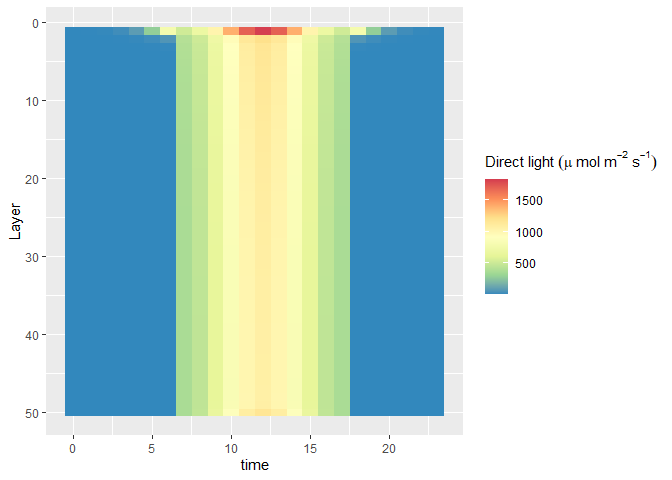
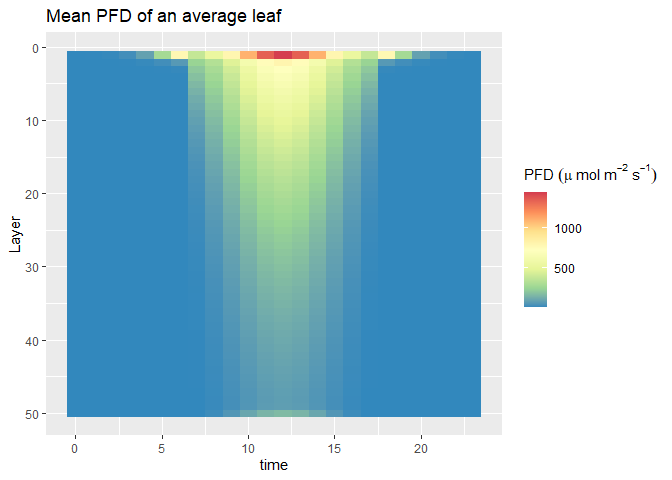
Updating the doc for canopy scaling

diff --git a/vignettes/Canopy_scaling.md b/vignettes/Canopy_scaling.md
@@ -6,9 +6,9 @@ Julien LAMOUR
 # Canopy Scaling
 
 The aim of this tutorial is to show how to scale the gas exchange
-predictions from the leaf to the canopy. In this tutorial, several
+predictions from the leaf level to the canopy. In this tutorial, several
 assumptions are used to simulate the canopy photosynthesis (GPP) and the
-transpiration. We consider that apart from the light, the
+transpiration (ET). We consider that apart from the light, the
 micrometeorological variables are homogeneous inside the canopy (Air
 temperature, wind, CO2, humidity). We also consider that the leaf size
 and structure is homogeneous. Those assumptions may be challenged if
@@ -22,35 +22,29 @@ Basically, in most of the TBMs, the photosynthesis is modeled at the
 leaf level and the scaling up to the canopy is made using two other
 elements, the canopy structure and the canopy radiation interception.
 
-The leaf level photosynthesis is modeled using the function f.AT. This
+The leaf level photosynthesis is modeled using the function f.A. This
 function allows to simulate the leaf gas exchange using input
-environmental variables surrounding the leaves (PARi, wind, RH, Tair)
-and leaf photosynthetic parameters (produced using the function
-f.make.param()). This function couples 3 different models. The Farquhar
-et al. 1980 model itself which describes the rate of photosynthesis from
-the intracellular CO2, the leaf temperature and the light intensity
-(PARi). Another model is the conductance model, which calculates the
-intracellular CO2 from the leaf surface CO2 and environmental factors
-that modify the conductance of the stomata. The last part of this model
-is the leaf energy budget which calculates the leaf temperature knowing
-the amount of energy that is received by the leaf and absorbed or
-reemmited. This part is represented by using the package tealeaves (Muir
-2019)
+environmental variables surrounding the leaves (PARi, RH, Tair, Tleaf)
+and the leaf photosynthetic parameters (produced using the function
+f.make.param()). This function couples 2 different models: (i) The
+Farquhar et al. 1980 model itself which describes the rate of
+photosynthesis from the intracellular CO2 concentration, and (ii) the
+conductance model, which calculates the intracellular CO2 from the leaf
+surface CO2 and environmental factors that modify the conductance of the
+stomata.
 
 The canopy structure corresponds to the vertical organization of the
-forest as well as its size, the size of the leaves, and their
-orientation. The vertical gradients of leaf properties are also
-represented, and notably the vertical structure of Vcmax, Jmax, TPU and
-Rd. For those representations, different equations can be used, see for
-example Clark et al. 2011, Lloyd et al. 2010 or Krinner et al. 2005. The
-main function describing the canopy structure are obtained from the
-package BioCro (<https://github.com/ebimodeling/biocro>).
+forest the size of the leaves, and their orientation. The vertical
+gradients of leaf properties are also represented, and notably the
+vertical structure of Vcmax, Jmax, TPU and Rd. For those
+representations, different equations can be used, see for example Clark
+et al. 2011, Lloyd et al. 2010 or Krinner et al. 2005.
 
 The canopy radiation interception simulates the light levels that each
-leaf receive inside the canopy. The light can be diffuse (shade leaf) or
-direct (sunlit leaf) depending on the position. This time again, the
-function from the package BioCro are used to describe the canopy
-radiation interception.
+leaf receive inside the canopy. The light can be diffuse (shaded leaves)
+or direct (sunlit leaves) depending on the position. The Norman
+radiation interception model (Norman 1979) is implemented as described
+in Bonan (2019).
 
 ## Simulation of the canopy structure
 
@@ -89,12 +83,13 @@ plot(x=meteo_hourly$time,y=meteo_hourly$sr,xlab='Time of the day',ylab='PPFD in 
 ![](Canopy_scaling_files/figure-gfm/unnamed-chunk-2-1.png)<!-- -->
 
 We now represent the light levels inside the canopy. The function is a
-wrapper of sunML and lightME functions from BioCro. We encourage you to
-go see the help of those functions. To summarize, they calculate the sun
-angle on a position on the earth to calculate the amount of diffuse
-light and direct light that will be received by the top of the canopy.
-Then a two stream radiation interception model is used to calculate the
-light levels inside the cnaopy.
+wrapper of lightME function from BioCro and the f.Norman.Radiation
+function from this package. We encourage you to go and see the help of
+those functions. To summarize, they calculate the sun angle on a
+position on the earth to calculate the amount of diffuse light and
+direct light that will be received by the top of the canopy. Then the
+Norman interception model is used to calculate the light levels inside
+the canopy.
 
 ``` r
 lat=9.2801048
@@ -131,7 +126,7 @@ canopy=f.canopy.interception(meteo_hourly=meteo_hourly,lat = lat,t.d = t.d,DOY =
     ## [1] "Radiation model for a total LAI of  6"
     ## [1] "Radiation model for a total LAI of  6"
 
-![](Canopy_scaling_files/figure-gfm/unnamed-chunk-3-2.png)<!-- -->![](Canopy_scaling_files/figure-gfm/unnamed-chunk-3-3.png)<!-- -->![](Canopy_scaling_files/figure-gfm/unnamed-chunk-3-4.png)<!-- -->
+![](Canopy_scaling_files/figure-gfm/unnamed-chunk-3-2.png)<!-- -->
 
 ## Simulation of the GPP without leaf energy budget
 
@@ -149,7 +144,13 @@ canopy_gasEx=f.GPP(TBM = "FATES",meteo_hourly =meteo_hourly,
     ## [1] "GPP =  2006.54477690822 g CO2 m-2 Ground Y-1"
     ## [1] "ET =  966.255981802251 L H20 m-2 Ground Y-1"
 
+For now, the GPP calculation uses the f.A function, so the
+photosynthesis model without the leaf energy balance.
+
 ## References
+
+Bonan, G. (2019). Climate change and terrestrial ecosystem modeling.
+Cambridge University Press.
 
 Clark, D. B., Mercado, L. M., Sitch, S., Jones, C. D., Gedney, N., Best,
 M. J., . Cox, P. M. (2011). The Joint UK Land Environment Simulator
@@ -175,3 +176,7 @@ foliar traits for Amazon forest trees. Biogeosciences, 7(6), 1833-1859.
 Muir, C. D., tealeaves: an R package for modelling leaf temperature
 using energy budgets, AoB PLANTS, Volume 11, Issue 6, December 2019,
 plz054
+
+Norman, J. M. (1979). Modeling the complete crop canopy. ln: Barﬁeld, G.
+Modification of the Aerial Environment of Crops. American Society of
+Agricultural Engineers, 249, 280.
